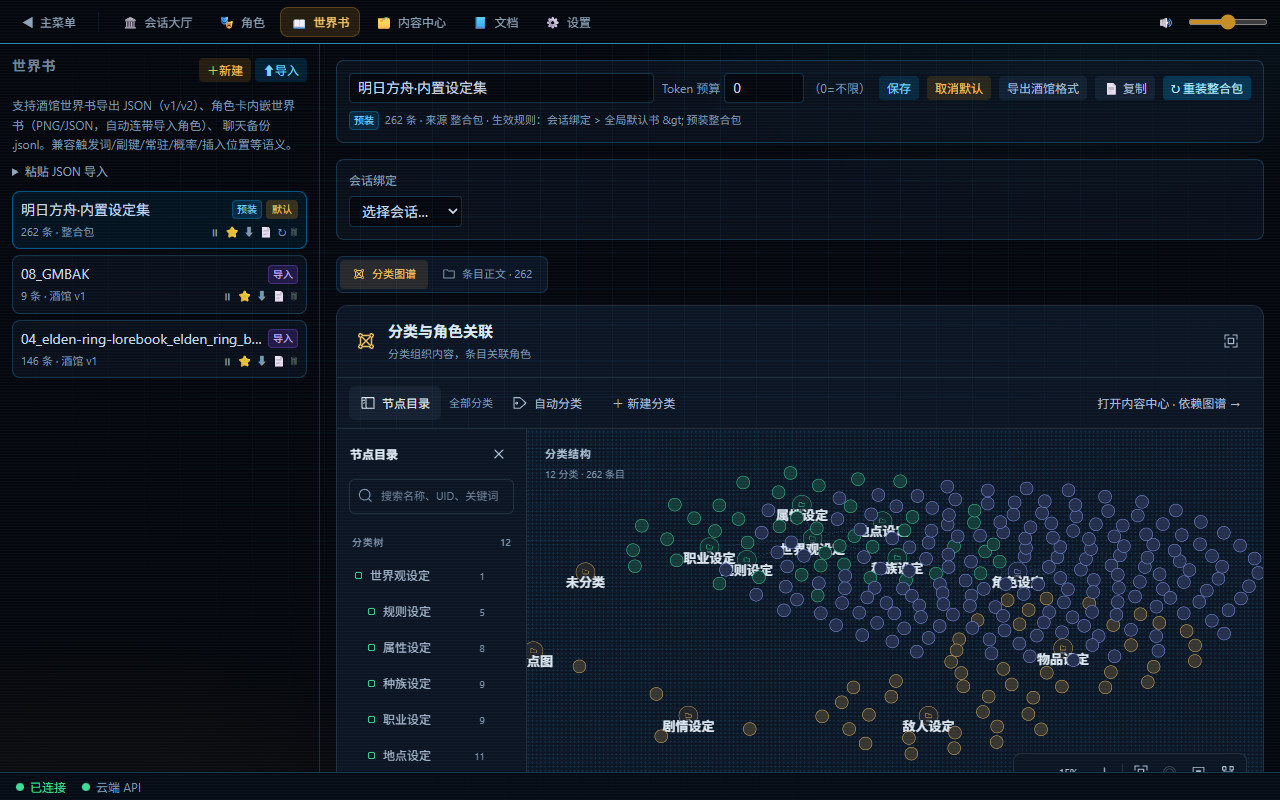
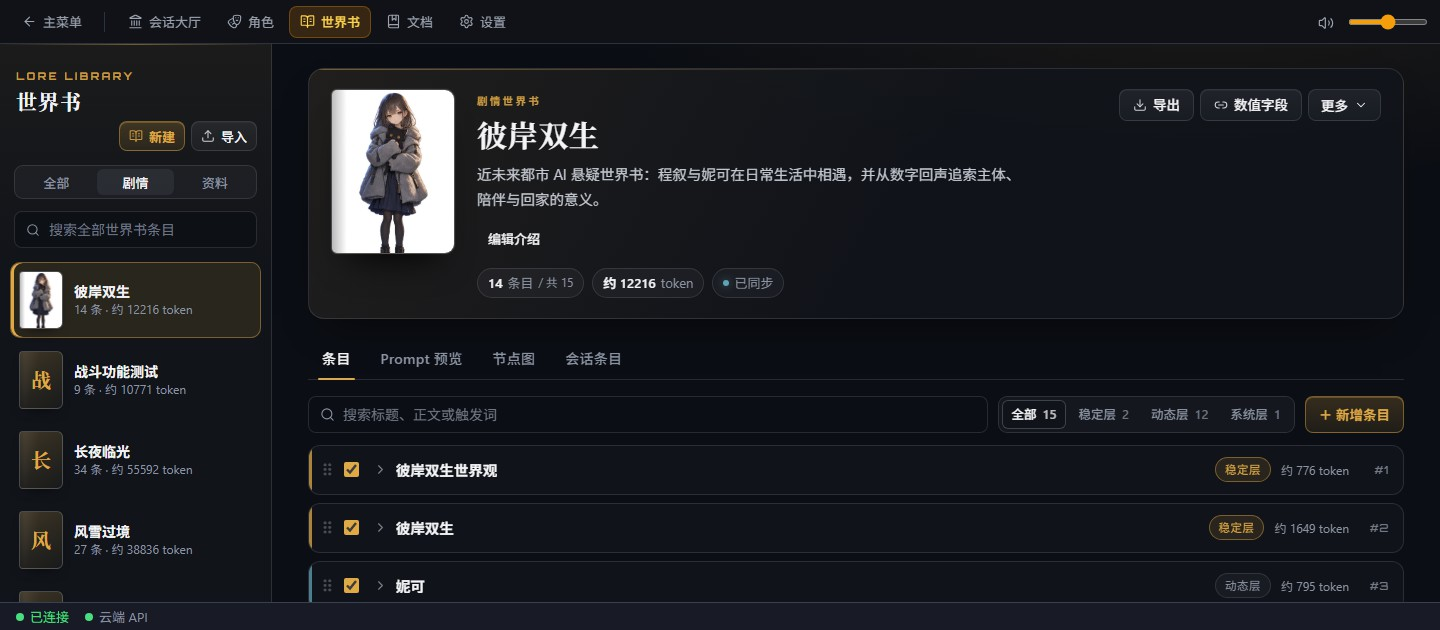
docs: refresh worldbook screenshot and battle mode positioning

diff --git a/README.md b/README.md
@@ -1,6 +1,6 @@
 # Arknights Tavern（开发测试中，功能尚未完善）
 
-**一款跑在你自己电脑上的明日方舟主题文字角色扮演游戏。** AI 扮演「主持人」推进剧情，你可以做选择、自由输入，也可以选择纯叙述、卡牌网格战斗或横版动作关卡。角色、剧情、世界书、战斗数据和存档全部存放在本机。
+**一款跑在你自己电脑上的明日方舟主题文字角色扮演游戏。** AI 扮演「主持人」推进剧情，你可以做选择或自由输入。战斗系统定位为可扩展的会话与战斗数据接口，可接入不同玩法；目前提供纯叙述、卡牌网格战斗和横版动作关卡。角色、剧情、世界书、战斗数据和存档全部存放在本机。
 
 > 第一次玩？建议先看图文教程 [**docs/tutorial.md**](docs/tutorial.md) —— 从零开始、不需要任何编程知识。
 
@@ -38,9 +38,7 @@
 
 酒馆（SillyTavern）Lorebook 兼容的设定库：关键词触发注入、绑定会话、批量编辑；世界书页提供条目 / Prompt 预览 / 节点图 / 会话条目四个页签，书架上方还能跨世界书检索条目。
 
-![世界书：条目列表与触发配置](docs/images/05-worldbook.jpg)
-
-> 世界书截图待更新；实际界面以当前版本为准。
+![世界书工作台：预装剧情书的四个页签与条目列表](docs/images/05-worldbook.jpg)
 
 ### 剧情节点图
 
@@ -50,7 +48,7 @@
 
 ### 战斗界面
 
-下图是回合制战术战斗：左侧我方状态、中央网格战场（PixiJS 角色动画与特效）、右侧敌方状态、底部手牌与事件日志。横版动作关卡使用独立的实时战斗界面。
+战斗可以接入不同的玩法界面。下图展示目前的回合战术实现：左侧我方状态、中央网格战场（PixiJS 角色动画与特效）、右侧敌方状态、底部手牌与事件日志。横版动作关卡使用独立的实时战斗界面。
 
 ![战斗界面：网格战场与卡牌操作](docs/images/07-combat.jpg)
 
@@ -69,8 +67,7 @@
 - **剧情回忆** — 每隔若干轮自动把进展总结成章节摘要，随时回顾发生过什么，也可一键重新总结。
 - **自由模式** — 手动把角色和物品加进场景，与单个角色对话或发起群聊，自由编辑地点 / 天气 / 时间。
 - **会话大厅** — 像游戏主菜单一样管理全部存档：新建、切换、重命名、批量删除、导出 / 导入存档包、绑定世界书与角色阵容。
-- **回合制网格战斗** — 卡牌 + AP + 地形，网格尺寸由战斗节点定义，带 PixiJS Spine 角色动画、技能特效和音效；数字键选牌、`F` 结束回合、`Esc` 取消。战斗结束后角色状态自动回写会话。
-- **横版动作关卡** — 独立于网格战斗的实时玩法，可在创建会话时选择，也可从会话大厅进入演练；支持移动、跳跃、闪避、攻击与技能。
+- **可扩展的战斗接入** — 以遭遇、参战角色、战前选择与结算结果等交接数据衔接剧情和战斗玩法，目标是能接入多种战斗模式。现有回合战术采用卡牌、AP 与网格地形；横版动作采用实时移动、跳跃、闪避、攻击与技能，两者也都可从会话大厅独立演练。
 - **世界书（酒馆兼容）** — 导入酒馆世界书 JSON（v1/v2）、角色卡内嵌世界书、聊天备份 `.jsonl`；支持常驻 / 选择性 / 概率 / 大小写 / 全词匹配等酒馆语义；可绑定到指定会话，并能一键导出回酒馆 v1 格式。
 - **世界书工作台** — 四个页签：`条目`（列表 / 编辑 / 导入导出 / 资料库检索摘录）、`Prompt 预览`（查看实际注入文本与未注入原因）、`节点图`（编辑剧情节拍与战斗节点）、`会话条目`（为当前会话单独启用或停用条目）；书架上方可跨世界书检索。依赖配置的编辑 UI 当前尚未接线，相关限制见 [`docs/notes.md`](docs/notes.md)。
 - **剧情节点图** — 在整页画布上把剧情节拍与战斗节点连成一张图，可视化编排一条完整剧情线。
@@ -90,7 +87,7 @@
 | 产品定位 | 明日方舟主题的**文字 RPG**：剧情推进、战斗与内容库一体 | 通用的 LLM 角色扮演**前端**，以角色卡对话为核心 |
 | 开箱内容 | 随程序分发角色、物品、敌人、战斗节点、剧情线与方舟设定集世界书整合包 | 本体不绑定特定世界观，内容依赖用户自行导入角色卡 / 世界书 |
 | 剧情能力 | 内置剧情模式：AI 叙述 + 行动选项 + 章节回忆 + 轮次 / 回忆 / 消息级回退 + 叙述多变体；另有整页画布的「剧情节点图」 | 以自由对话为主 |
-| 战斗 | 纯叙述、卡牌回合制网格战斗与独立横版动作关卡；战术战斗支持 AP、地形、可配置网格、Spine 动画与音效 | 无内置战斗系统 |
+| 战斗 | 以通用的会话与战斗数据交接为扩展方向，可接入不同玩法；目前有纯叙述、卡牌回合制网格战斗与横版动作关卡 | 无内置战斗系统 |
 | 世界书 | 酒馆 Lorebook v1/v2 兼容（导入 / 导出 / 角色卡内嵌 / `.jsonl` 聊天备份），另有四页签工作台（`条目` / `Prompt 预览` / `节点图` / `会话条目`） | 原生 Lorebook，条目管理成熟、社区生态庞大 |
 | 内容管理 | 资产与卡牌在「角色」页的模块页签里管理，剧情节点图在世界书工作台的 `节点图` 页签里编辑；世界书依赖与索引的归属也都在世界书工作台（依赖配置的编辑 UI 当前未接线，见上），一级入口不再重叠；角色库、资产与卡牌都标注来源世界书，可按书分组或筛选 | 以角色卡与世界书为组织单位 |
 | 运行形态 | Electron 桌面端（已配置 Windows / macOS / Linux 打包目标）与浏览器端两种界面；后端对话走 SSE 流式输出 | 浏览器访问，Node.js 单运行时 |
@@ -231,7 +228,9 @@ Windows 上该脚本默认调用 `python3`，可用 `PYTHON=python bash scripts/
 
 ### 6. 战斗
 
-剧情会话的战斗类型由创建时选择的模式决定。会话大厅的「战斗演练」提供回合制与横版动作两种独立练习入口；回合制还支持无需会话的测试存档。下表适用于**回合制网格战斗**。
+战斗系统的设计目标是把剧情 / 会话与具体玩法之间的交接做成通用数据接口：会话提供遭遇标识、参战角色状态与战前选择，玩法完成战斗后把结果交回会话。这样可以继续接入不同类型的战斗。当前的回合战术与横版动作分别使用自己的关卡规格、运行状态和结算接口；新增模式仍需实现对应适配，并非只添加一份 JSON 就能自动运行。
+
+现阶段会话创建时可选择纯叙述（`narrative`）、回合战术（`tactical`）或横版动作（`sideview`），创建后不可更改。会话大厅的「战斗演练」提供回合战术与横版动作两种独立练习入口。下表适用于**回合制网格战斗**。
 
 | 操作 | 方法 |
 | --- | --- |
@@ -242,7 +241,7 @@ Windows 上该脚本默认调用 `python3`，可用 `PYTHON=python bash scripts/
 | 结束回合 | 点击「结束回合」或按 `F` |
 | 取消操作 | 按 `Esc` |
 
-战斗结束后，角色的 HP 变化、受伤、死亡等状态会自动回写到当前会话。
+回合战术结束后，角色的 HP 变化、受伤、死亡等状态会回写到当前会话。横版动作也有独立的结算与角色状态回写流程。
 
 ### 7. 设置
 
@@ -281,6 +280,7 @@ Windows 上该脚本默认调用 `python3`，可用 `PYTHON=python bash scripts/
 | [`docs/architecture.md`](docs/architecture.md) | 系统架构、模块职责、数据位置 |
 | [`docs/design/combat/battle-spec.md`](docs/design/combat/battle-spec.md) | 战斗节点 JSON 规格 |
 | [`docs/design/combat/combat-ui-design.md`](docs/design/combat/combat-ui-design.md) | 战斗界面设计 |
+| [`docs/design/combat/sideview-combat.md`](docs/design/combat/sideview-combat.md) | 横版动作关卡的运行与会话交接契约 |
 | [`docs/design/content-hub-design.md`](docs/design/content-hub-design.md) | 内容中心整合设计（一级入口已拆解为「角色 + 世界书」两级，见文首「后续变更」） |
 | [`docs/design/combat/combat-background-prompts.md`](docs/design/combat/combat-background-prompts.md) | 战斗背景图生成提示词 |
 
